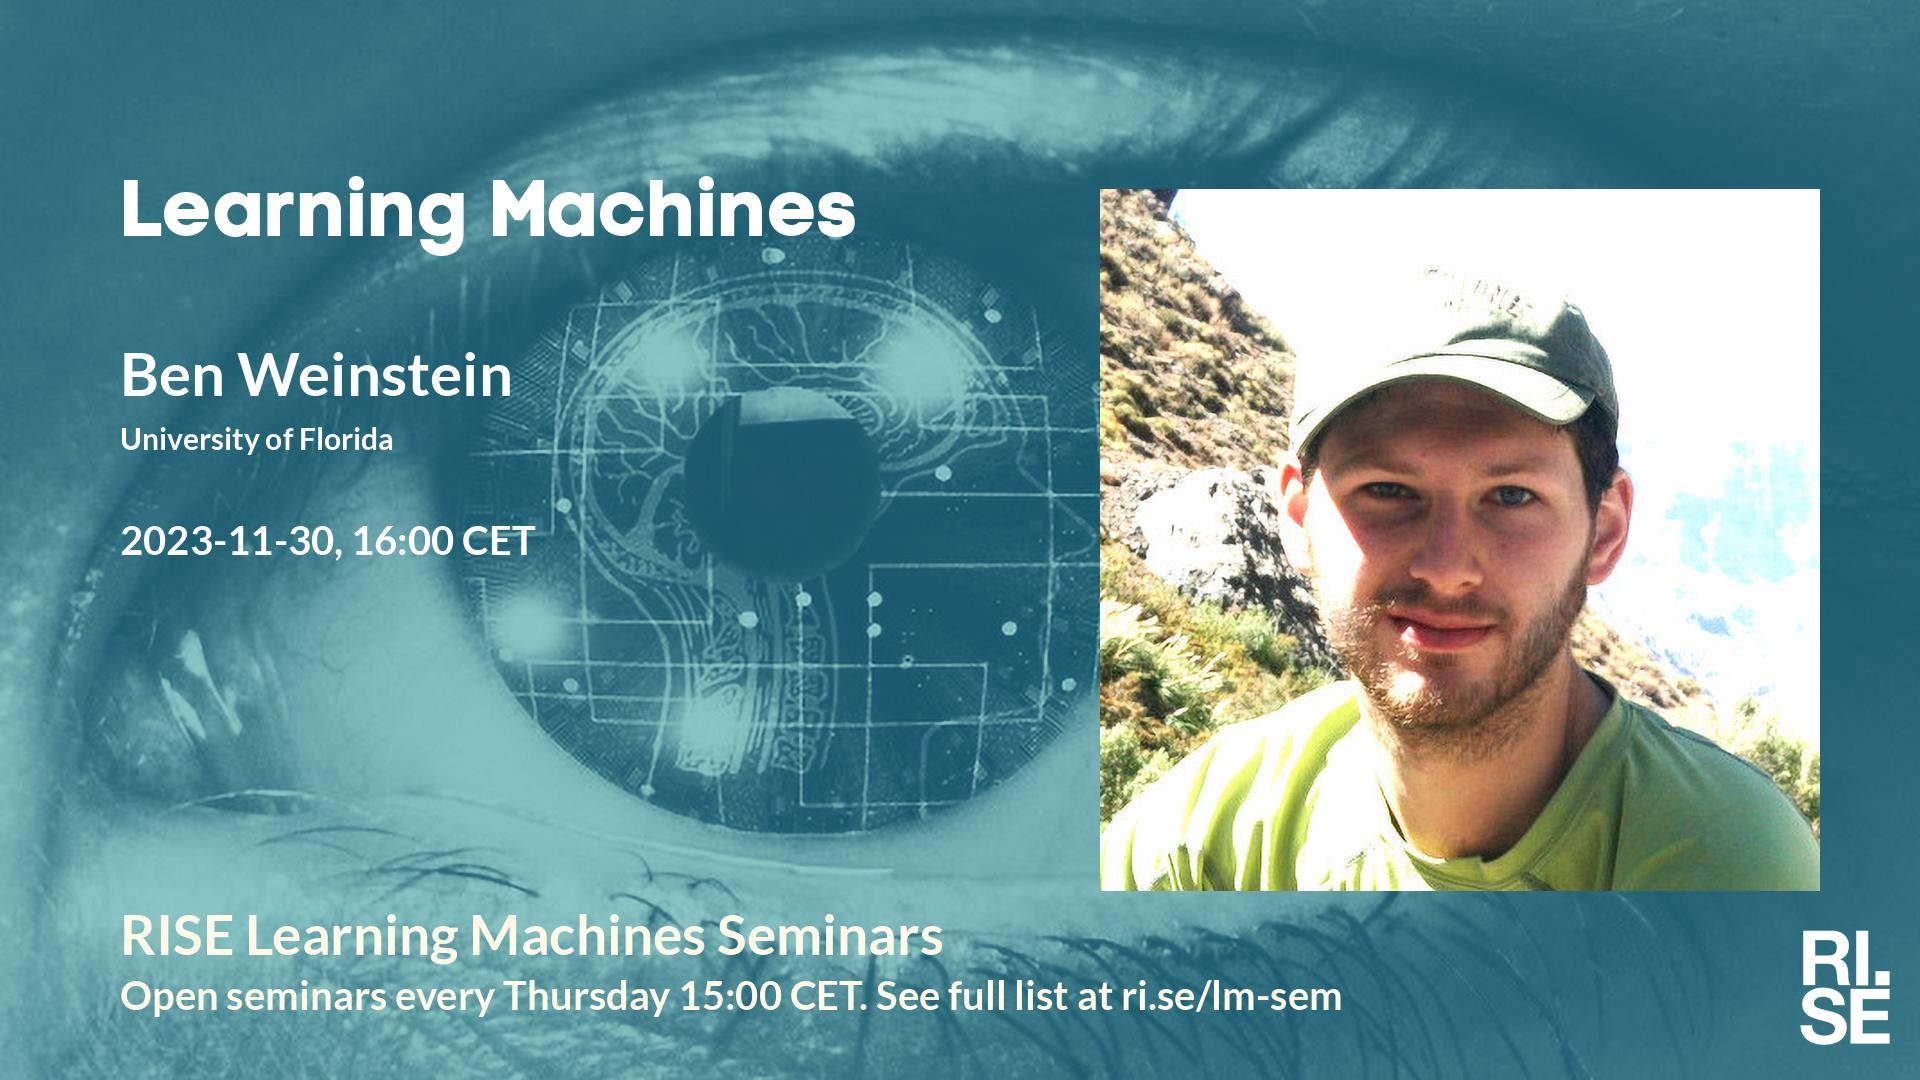
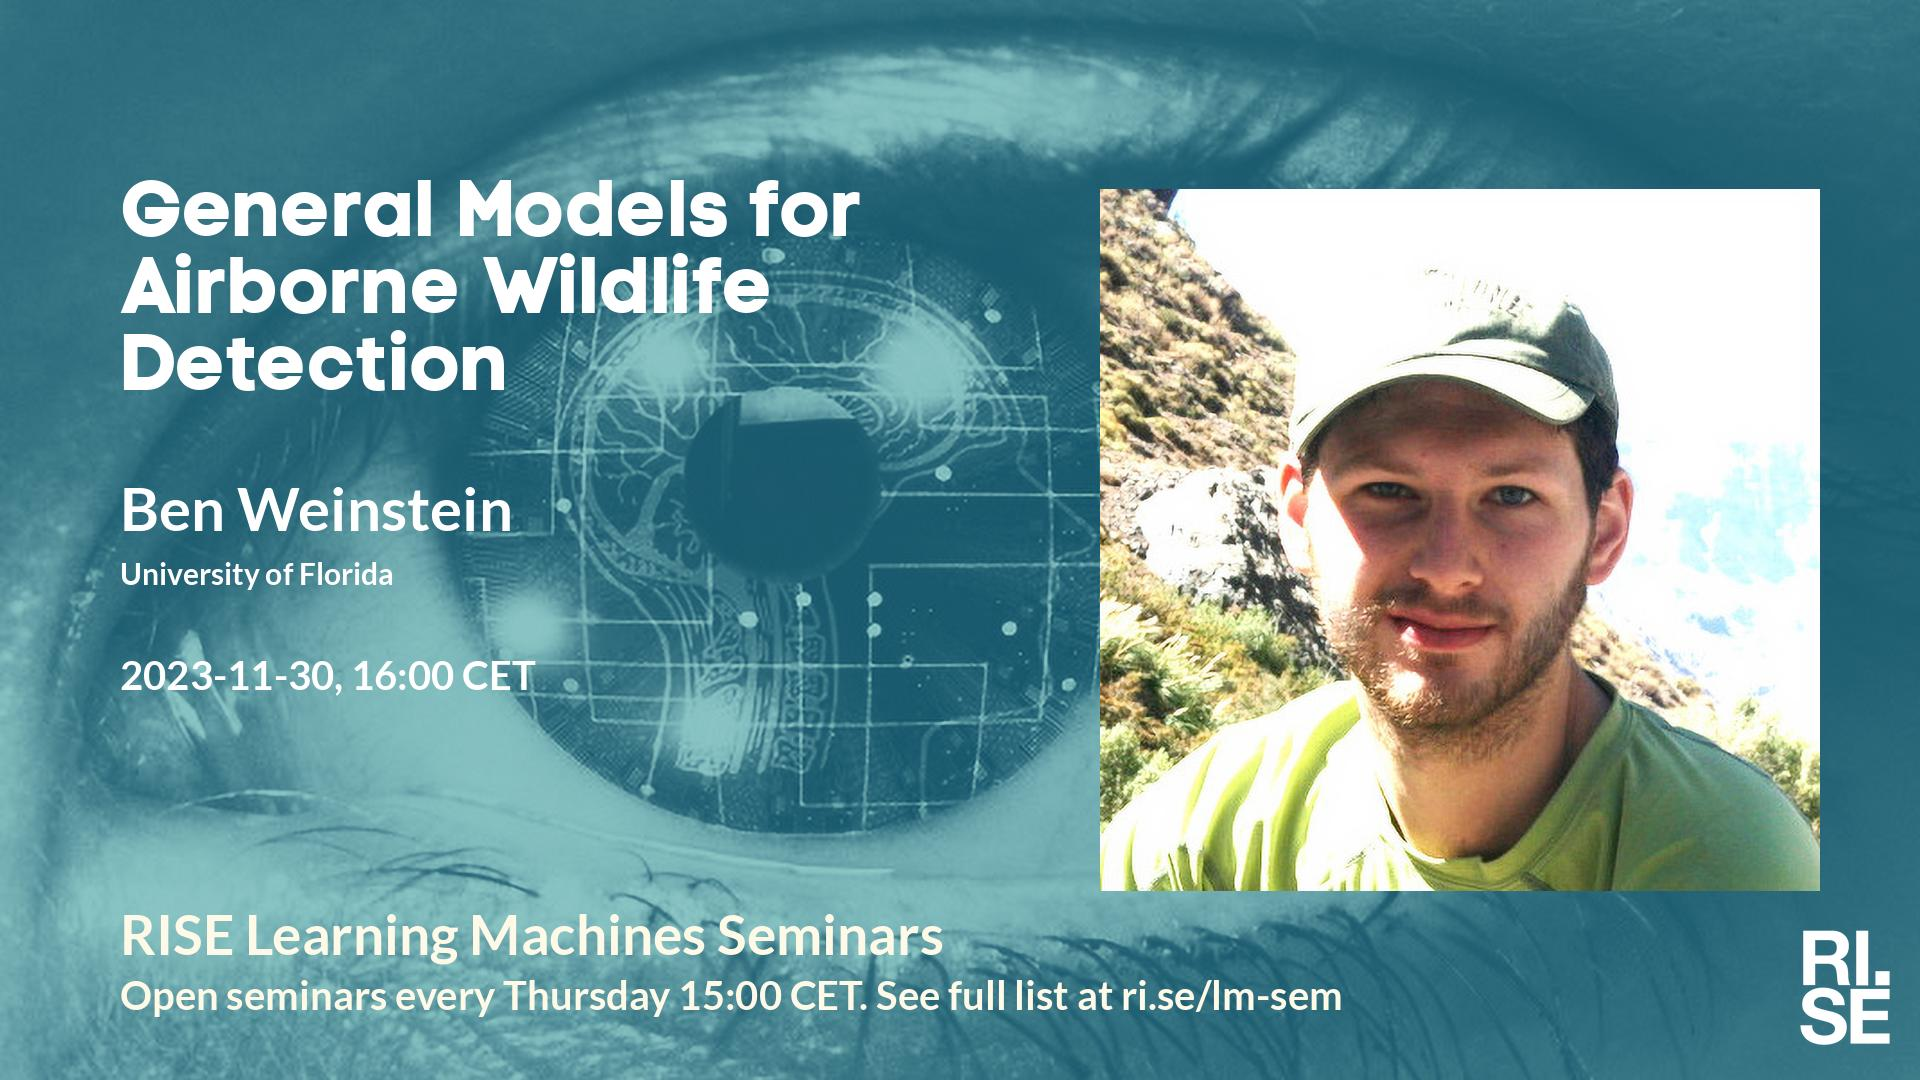
Updated plan on web site.

diff --git a/lm/index.md b/lm/index.md
@@ -5,7 +5,7 @@ metatags: "<meta name=\"robots\" content=\"noindex,nofollow\" />"
 <style type="text/css" scoped>
 td, th {border: 1px solid #ccc; padding: 0.6em;}
 table {border-collapse: collapse;}
-</style># Learning Machines Plan 2023-10-23
+</style># Learning Machines Plan 2023-10-24
 
 | date | speaker                                   | photo | shareable | meeting backdrop | youtube thumbnail | <a title="Speaker, Title, Abstract, Bio, Photo. Strikethrough means we don't have it yet.">comment</a>        |
 | ---- | ----------------------------------------- | ----- | ----- | ----- | ----- | -------------- |
@@ -17,7 +17,7 @@ table {border-collapse: collapse;}
 |  2023-11-09  |  [Nataša Sladoje, Uppsala University](2023-11-09.md)  |    |  [social media ](social-media-natasa-sladoje.jpg)  |  [meeting backdrop ](meeting-backdrop-natasa-sladoje.jpg)  |  [youtube thumbnail ](youtube-thumbnail-natasa-sladoje.jpg)  |  STAB~~P~~  |
 |  2023-11-16  |  [Jonas Hellgren, RISE](2023-11-16.md)  |    |  [social media ](social-media-jonas-hellgren.jpg)  |  [meeting backdrop ](meeting-backdrop-jonas-hellgren.jpg)  |  [youtube thumbnail ](youtube-thumbnail-jonas-hellgren.jpg)  |  ST~~ABP~~  |
 | <span style="color:red"> 2023-11-23 </span> | <span style="color:red"> Thanksgiving </span> | <span style="color:red">  </span> | <span style="color:red">  </span> | <span style="color:red">  </span> | <span style="color:red">  </span> | <span style="color:red"> CANCELLED </span> |
-|  2023-11-30  |  [Ben Weinstein, University of Florida](2023-11-30.md)  |  [photo](photo-ben-weinstein.jpg)  |  [social media ](social-media-ben-weinstein.jpg)  |  [meeting backdrop ](meeting-backdrop-ben-weinstein.jpg)  |  [youtube thumbnail ](youtube-thumbnail-ben-weinstein.jpg)  |  S~~TAB~~P  |
+|  2023-11-30  |  [Ben Weinstein, University of Florida](2023-11-30.md)  |  [photo](photo-ben-weinstein.jpg)  |  [social media ](social-media-ben-weinstein.jpg)  |  [meeting backdrop ](meeting-backdrop-ben-weinstein.jpg)  |  [youtube thumbnail ](youtube-thumbnail-ben-weinstein.jpg)  |  STABP  |
 | <span style="color:grey"> 2023-12-07 </span> | <span style="color:grey"> Stefan B. ? </span> | <span style="color:grey">  </span> | <span style="color:grey">  </span> | <span style="color:grey">  </span> | <span style="color:grey">  </span> | <span style="color:grey"> ?~~TABP~~ </span> |
 |  2023-12-14  |  [Fredrik Gustavsson, Karolinska Institutet](2023-12-14.md)  |    |  [social media ](social-media-fredrik-gustavsson.jpg)  |  [meeting backdrop ](meeting-backdrop-fredrik-gustavsson.jpg)  |  [youtube thumbnail ](youtube-thumbnail-fredrik-gustavsson.jpg)  |  S~~TABP~~  |
 | <span style="color:red"> 2023-12-21 </span> | <span style="color:red"> Christmas </span> | <span style="color:red">  </span> | <span style="color:red">  </span> | <span style="color:red">  </span> | <span style="color:red">  </span> | <span style="color:red"> CANCELLED </span> |

diff --git a/lm/2023-11-30.md b/lm/2023-11-30.md
@@ -4,13 +4,13 @@ metatags: "<meta name=\"robots\" content=\"noindex,nofollow\" />"
 ---
 Welcome to this week's Learning Machines seminar.
 
-**Title:** N/A
+**Title:** General Models for Airborne Wildlife Detection. Where are we? Where are we going?
 
 **Speaker:** Ben Weinstein, University of Florida
 
-**Abstract:** N/A
+**Abstract:** Ecology is undergoing rapid transformation in data collection. The broad adoption of automated tools for ecological monitoring has created enormous datasets of unlabeled sensor data. To transform these raw data into ecological inference, we need automated approaches for finding, counting and describing organisms. Computer vision, a form of image-based artificial intelligence, is a highly effective tool for developing large models for image-based ecological modeling. Using examples from airborne tree surveys and avian colony surveys, we demonstrate the benefits of airborne monitoring coupled with automated AI classification. Using multi-sensor deep learning models, we present landscape level maps for individual tree species for over 100 million canopy crowns within the NEON network. Using multi-temporal surveys from UAVs, we present an airborne workflow for estimating nesting phenology in Everglades nesting bird colonies. While these results open new avenues for research at unprecedented scales, there remain several obstacles to bringing AI advances to all ecologists. The combination of technical skill, significant annotation effort, and lack of model sharing severely limit the adoption of airborne ecological monitoring. To move beyond highly customized models for every application, we need general models that serve as a baseline for common ecological tasks from airborne imaging. I discuss the potential for general models and the hope for data integration across acquisition systems, taxa and geography.
 
-**About the speaker:** N/A
+**About the speaker:** Ben Weinstein obtained his PhD in Ecology and Evolution from Stony Brook University in 2016. He is currently a postdoctoral fellow at University of Florida, and studies the mechanisms that generate, maintain, and preserve biodiversity. Specifically, this includes the ecology of species interactions, hierarchical Bayesian models for ecological predictions, and machine learning for biodiversity image analysis.
 
 **Location:** This is an online seminar. Connect using Zoom.
 
